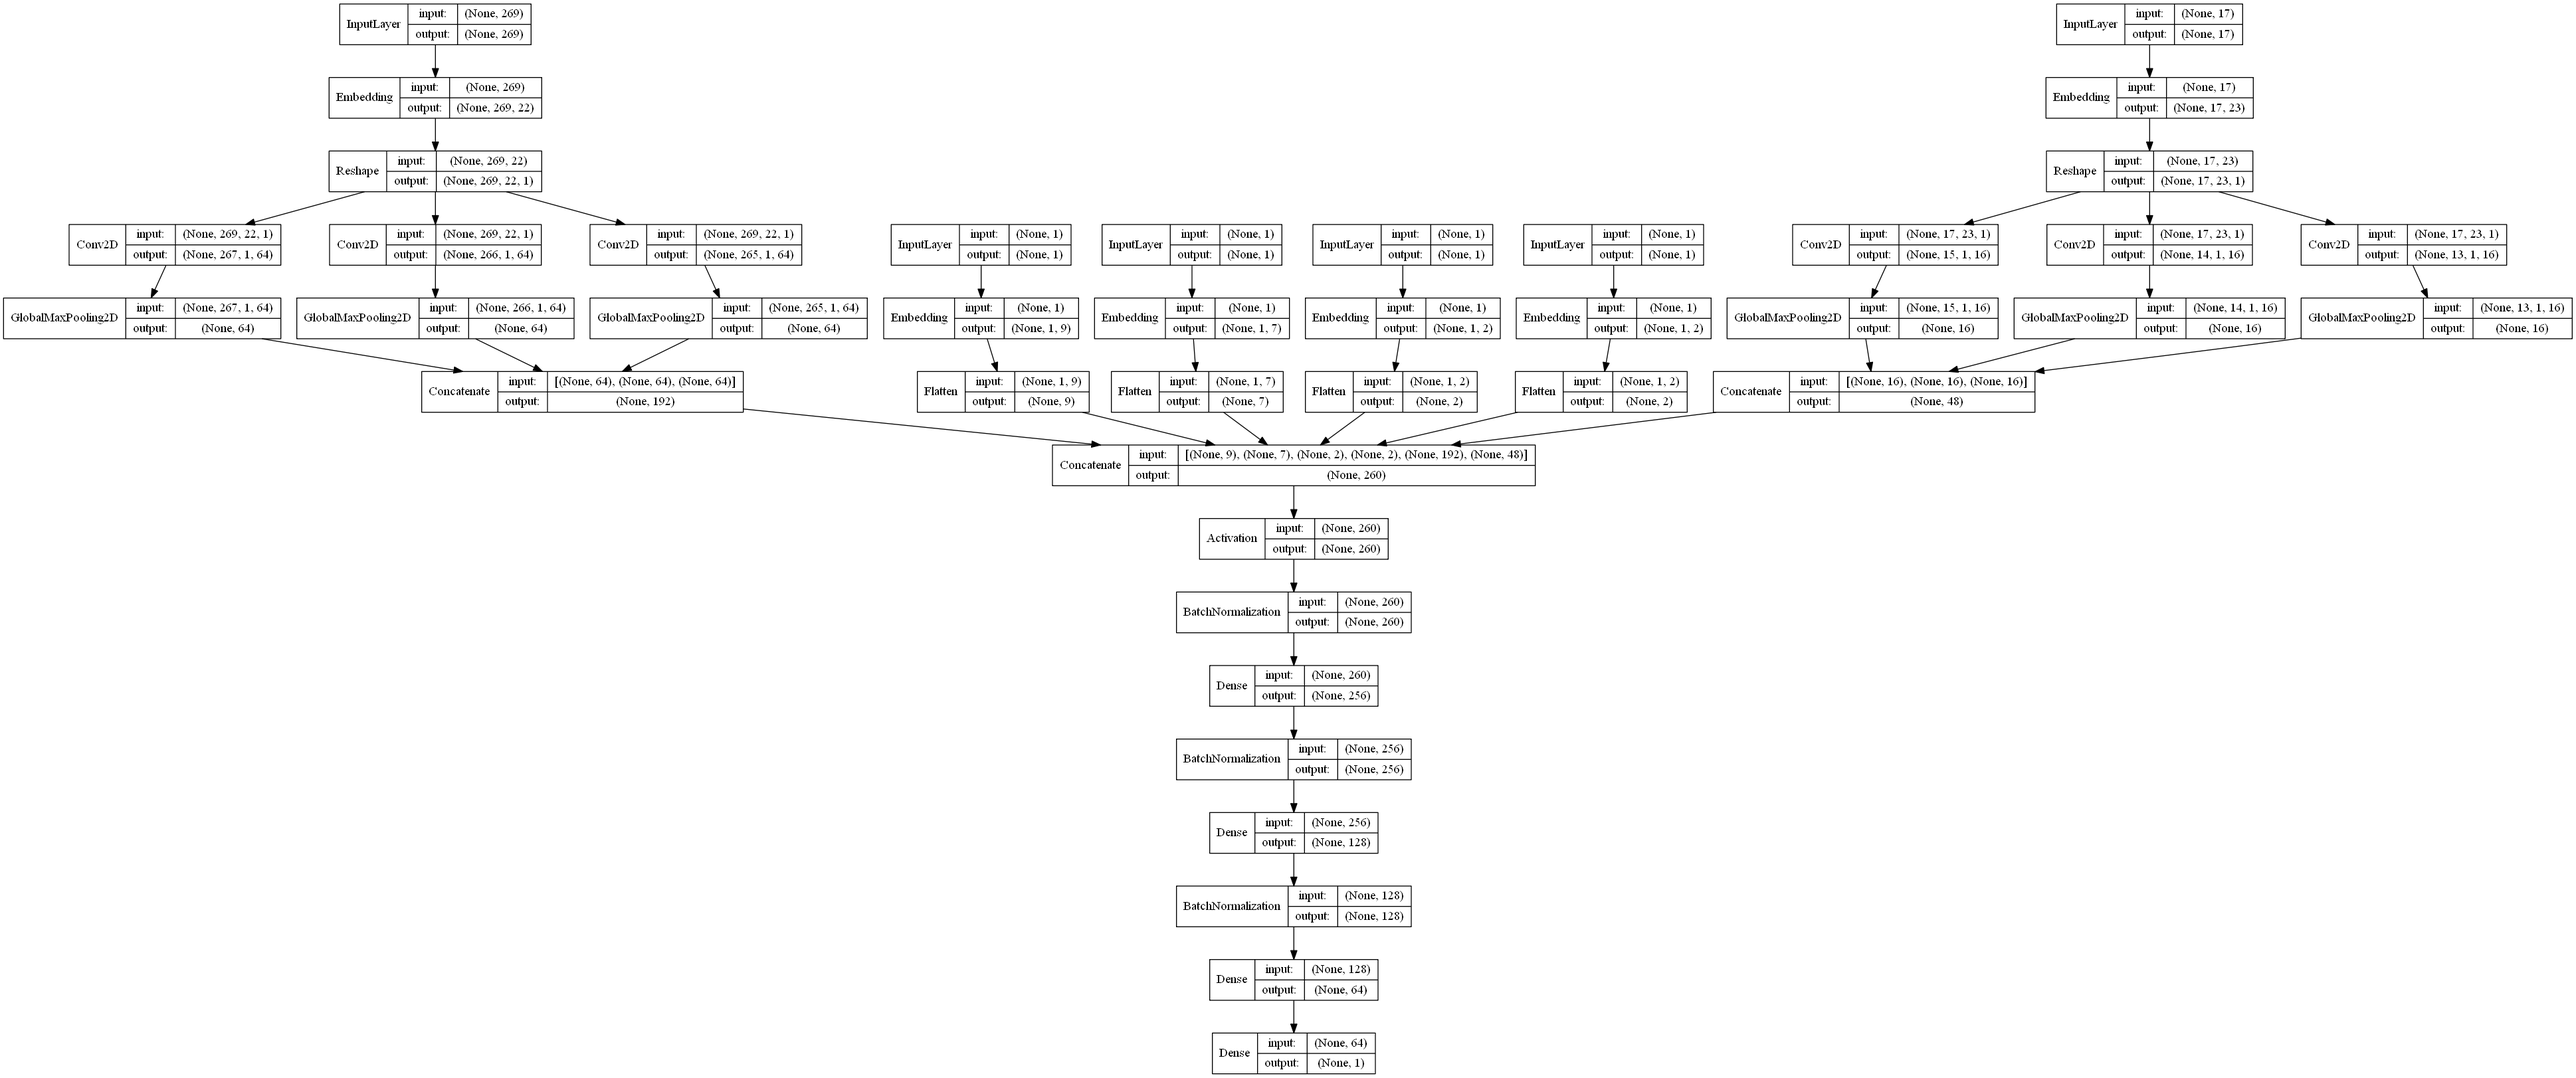
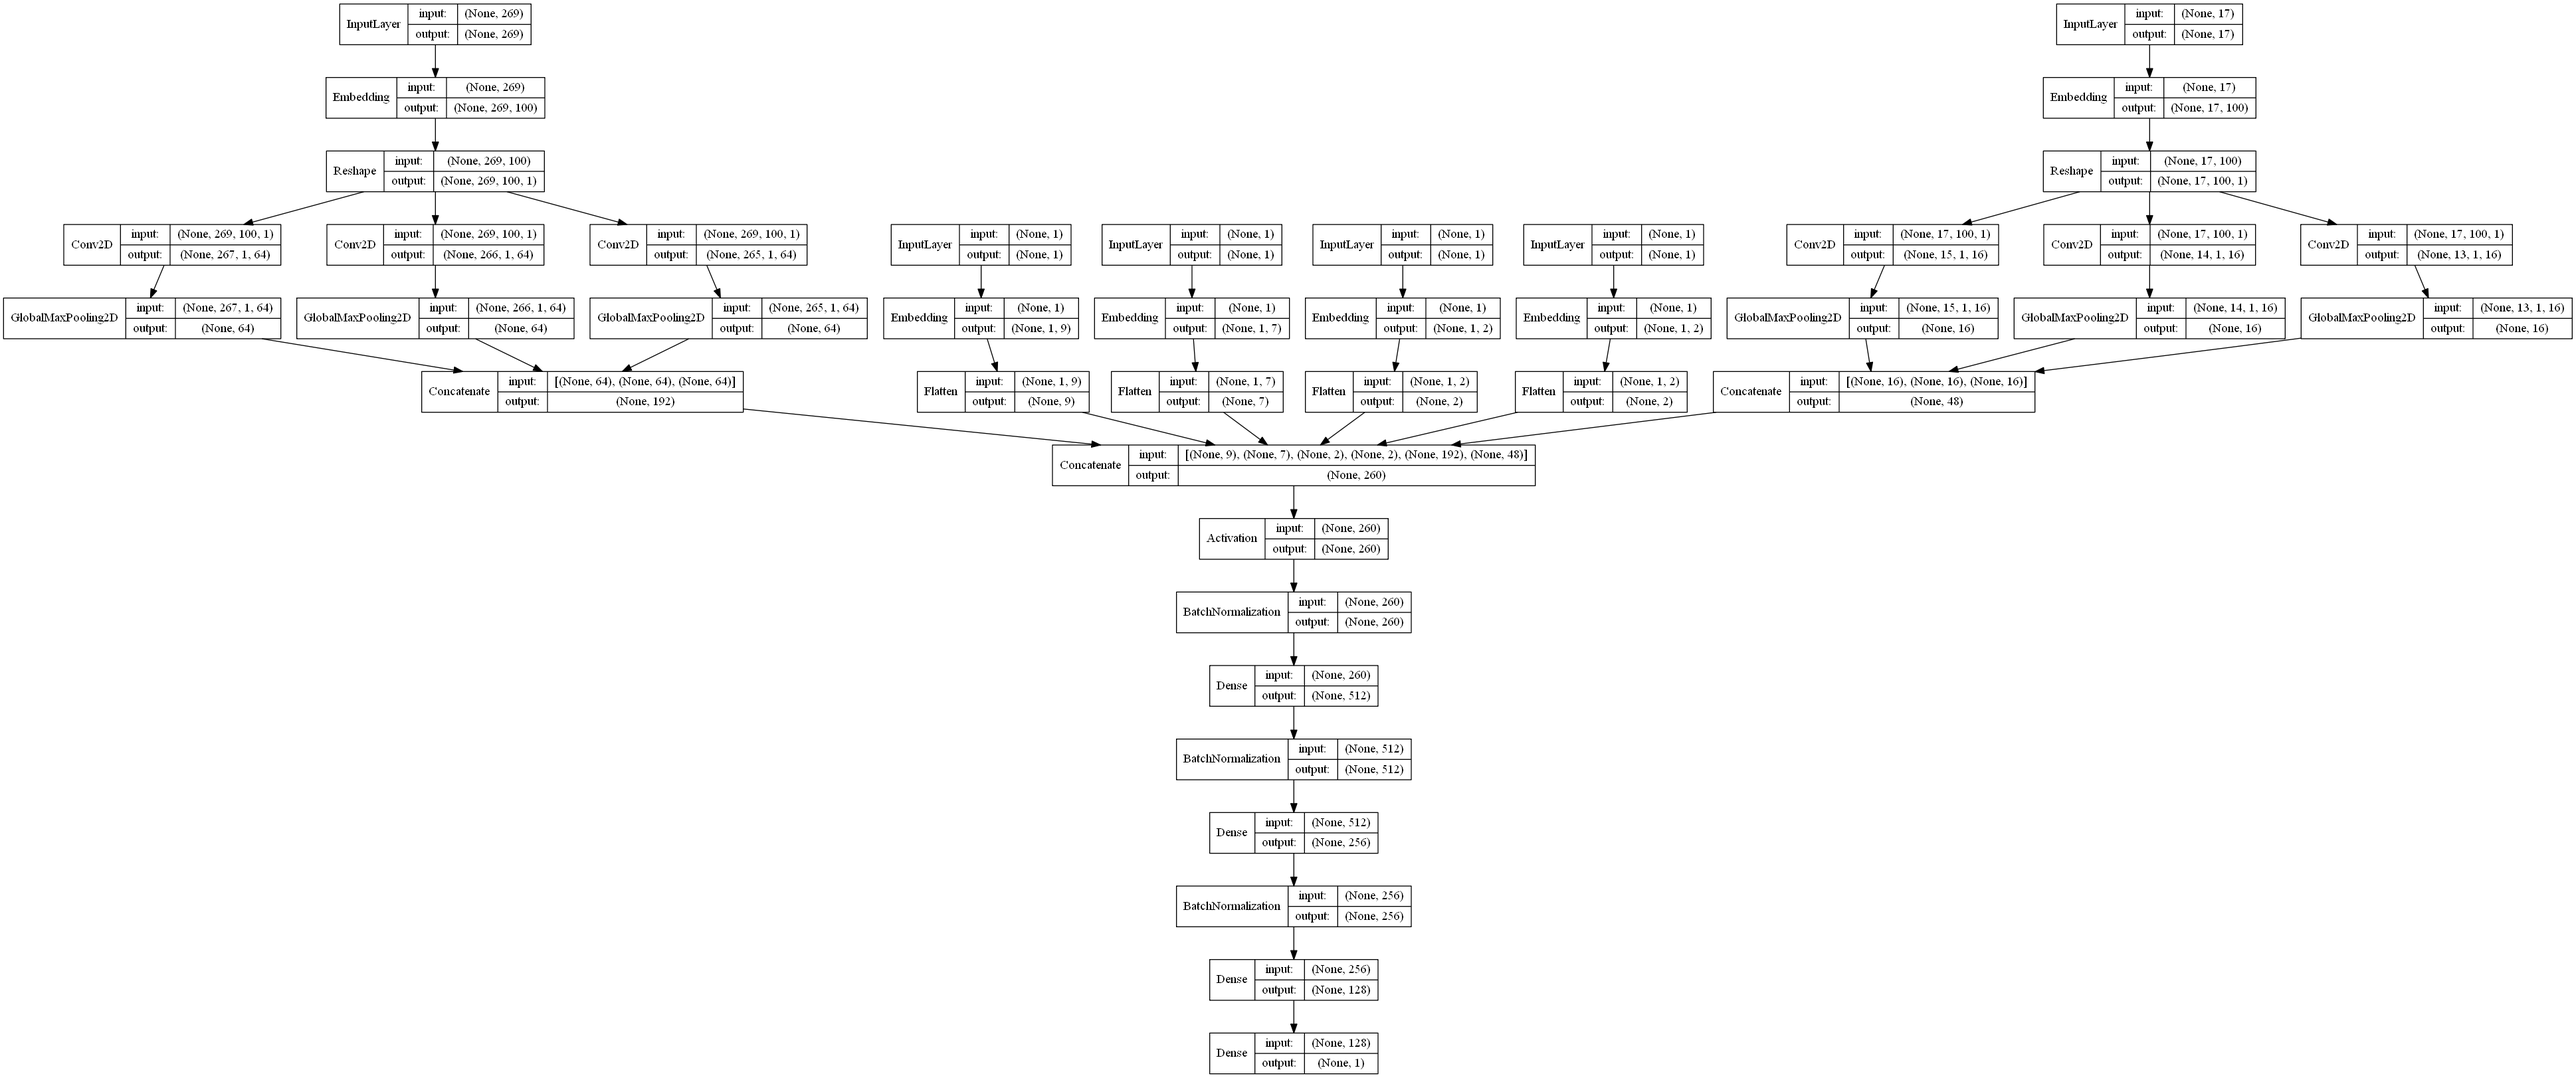
Add files via upload

diff --git a/mercari.py b/mercari.py
@@ -43,7 +43,7 @@ def preprocessing():
     print('GloVe分散表現を読み込む...')
     word_index = tokenizer.word_index
     embeddings_index = {}
-    f = open('glove.6B.100d.txt')
+    f = open('glove.6B.100d.txt', encoding='utf-8')
     for line in f:
         values = line.split()
         word = values[0]
@@ -106,7 +106,7 @@ class Mercari_Model:
         shipping_input = Input(shape=(1,), name='shipping')
         
         # GloVe Embedding Matrix
-        embedding_matrix = np.random.randn(self.max_text, 100)
+        embedding_matrix = np.zeros((self.max_text, 100))
         for word, i in self.word_index.items():
             embedding_vector = self.embeddings_index.get(word)
             if embedding_vector is not None:
@@ -190,7 +190,7 @@ class Mercari_Model:
 if __name__ == '__main__':
     model = Mercari_Model()
     model.create_model()
-    model.train_model()
-    model.predict_testset()
+    # model.train_model()
+    # model.predict_testset()
     model.save_model()
     plot_model(model.model, to_file='model.png', show_shapes=True, show_layer_names=False)
